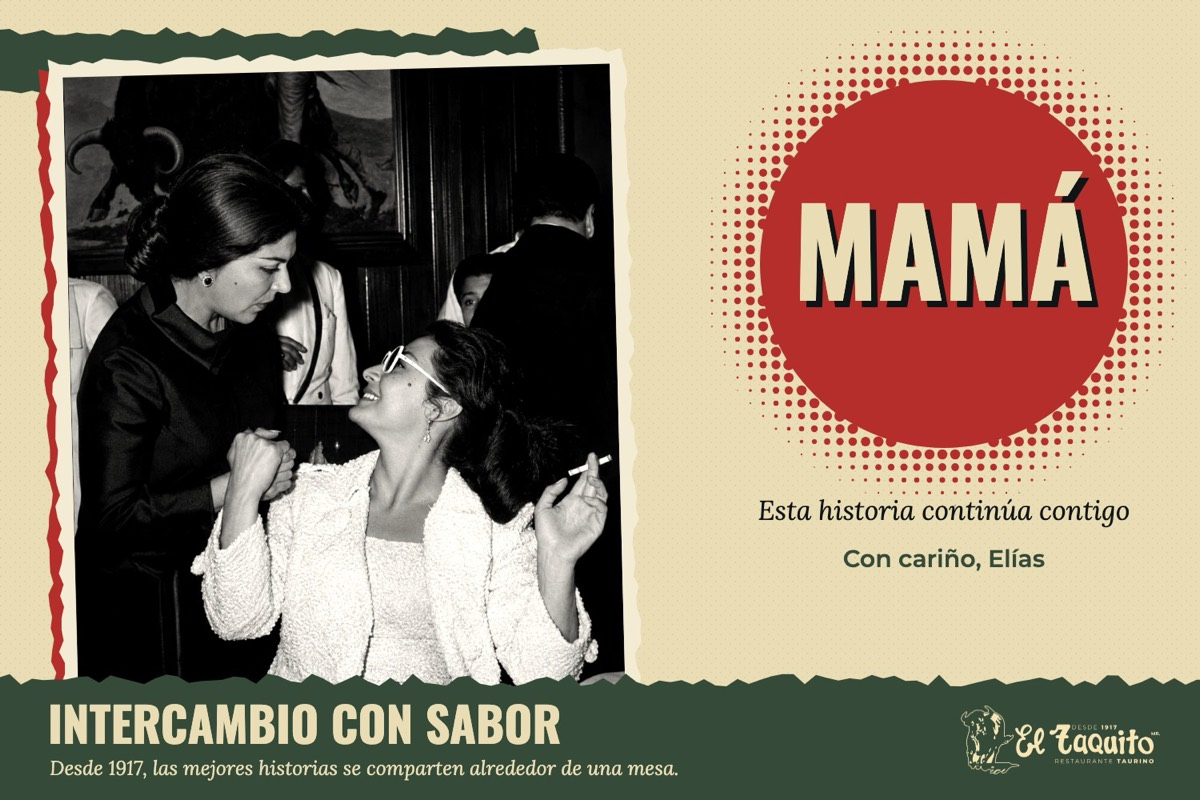
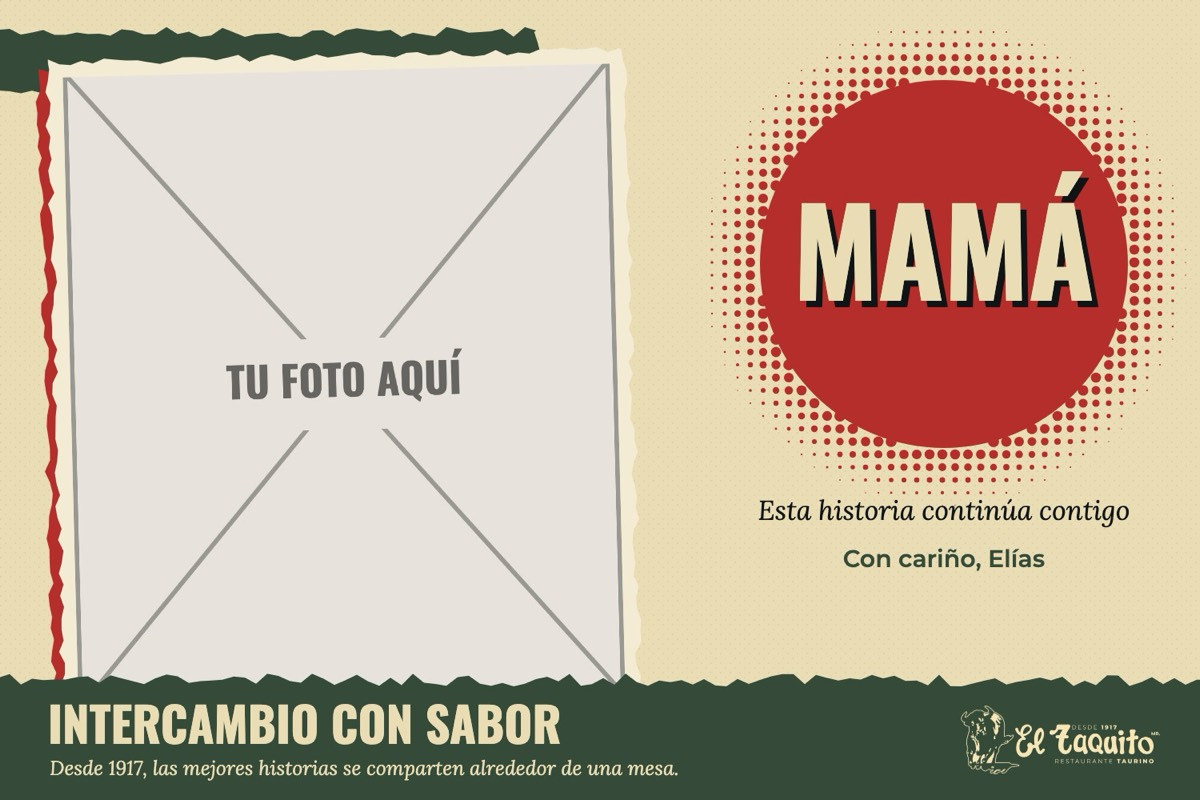
Muestra con foto de relleno; Compartir manda el enlace de la postal

Changed region(s): [[0.0308, 0.0625, 0.5242, 0.875]]

diff --git a/recibe/index.html b/recibe/index.html
@@ -75,15 +75,14 @@ footer{background:var(--carbon);color:var(--crema);padding:28px 0;font-size:13.5
 <footer><div class="wrap">Miguel Noreña 25, San José Insurgentes, CDMX · Lunes a sábado 13:00 a 22:00 · Domingo 13:00 a 20:00</div></footer>
 <script>
 (function(){
+  /* Compartir el ENLACE de la postal, no la imagen */
   var b = document.getElementById('compartirPostal');
-  if (!navigator.canShare) return;
+  var texto = 'Mira la postal que me regalaron en El Taquito 💌';
   b.hidden = false;
   b.addEventListener('click', function(){
-    fetch('../img/ejemplo-postal.jpg').then(function(r){return r.blob()}).then(function(bl){
-      var f = new File([bl], 'postal-el-taquito.jpg', {type:'image/jpeg'});
-      if (navigator.canShare({files:[f]})) return navigator.share({files:[f], title:'Mi postal de El Taquito'});
-      return navigator.share({url: location.href});
-    }).catch(function(){});
+    var url = location.href.split('#')[0];
+    if (navigator.share) { navigator.share({title: 'Mi postal de El Taquito', text: texto, url: url}).catch(function(){}); return; }
+    window.open('https://wa.me/?text=' + encodeURIComponent(texto + ' ' + url), '_blank', 'noopener');
   });
 })();
 </script>

diff --git a/servidor/p/index.php b/servidor/p/index.php
@@ -76,15 +76,14 @@ cabeza($titulo, $og);
 <script>
 window.TQ = {origen: <?= json_encode($c) ?>, postal: <?= json_encode((string)$p['postal']) ?>, historia: <?= json_encode("/api/img.php?c=$c") ?>};
 (function(){
+  /* Compartir el ENLACE de la postal, no la imagen */
   var b = document.getElementById('compartirPostal');
-  if (!navigator.canShare) return;
+  var texto = 'Mira la postal que me regalaron en El Taquito 💌';
   b.hidden = false;
   b.addEventListener('click', function(){
-    fetch(window.TQ.historia).then(function(r){return r.blob()}).then(function(bl){
-      var f = new File([bl], 'postal-el-taquito.jpg', {type:'image/jpeg'});
-      if (navigator.canShare({files:[f]})) return navigator.share({files:[f], title:'Mi postal de El Taquito'});
-      return navigator.share({url: location.href});
-    }).catch(function(){});
+    var url = location.href.split('#')[0];
+    if (navigator.share) { navigator.share({title: 'Mi postal de El Taquito', text: texto, url: url}).catch(function(){}); return; }
+    window.open('https://wa.me/?text=' + encodeURIComponent(texto + ' ' + url), '_blank', 'noopener');
   });
 })();
 </script>
